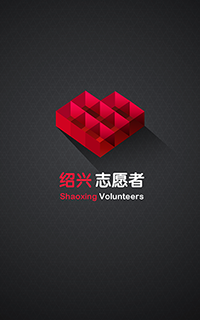
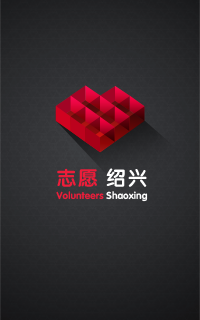
fix img

Changed region(s): [[0.27, 0.25, 0.75, 0.625]]

diff --git a/www/index.html b/www/index.html
@@ -13,7 +13,7 @@
 </head>
 <body>
 	<header id="fixed">
-        <div></div><h1>绍兴志愿者</h1><div></div>
+        <div></div><h1>欢迎来到志愿绍兴</h1><div></div>
     </header>
 	<section>
         <article>
@@ -27,10 +27,16 @@
         <article>
             <h2>志愿团队</h2>
             <ul name="group_list">
-                <li>学雷锋青年志愿者团队</li>
-                <li>爱心无界志愿者团队</li>
-                <li>青春闪光志愿者团队</li>
-                <li>携手爱同行志愿者团队</li>
+                <li>绍兴市一米阳光爱心服务社</li>
+                <li>越城区城南街道社区卫生服务中心青年志愿者先锋队</li>
+                <li>柯桥区微动力志愿服务总队</li>
+                <li>上虞区新和成家电维修志愿服务队</li>
+                <li>嵊州市人民医院青年志愿者服务队</li>
+                <li>新昌县大脚丫平安志愿者总队</li>
+                <li>绍兴市第七人民医院志愿服务队</li>
+                <li>绍兴鲁迅故里游客中心青年服务队</li>
+                <li>绍兴文理学院医学院青年志愿者总队</li>
+                <li>绍兴职业技术学院机电工程学院青年志愿者大队</li>
             </ul>
         </article>
 	</section>
